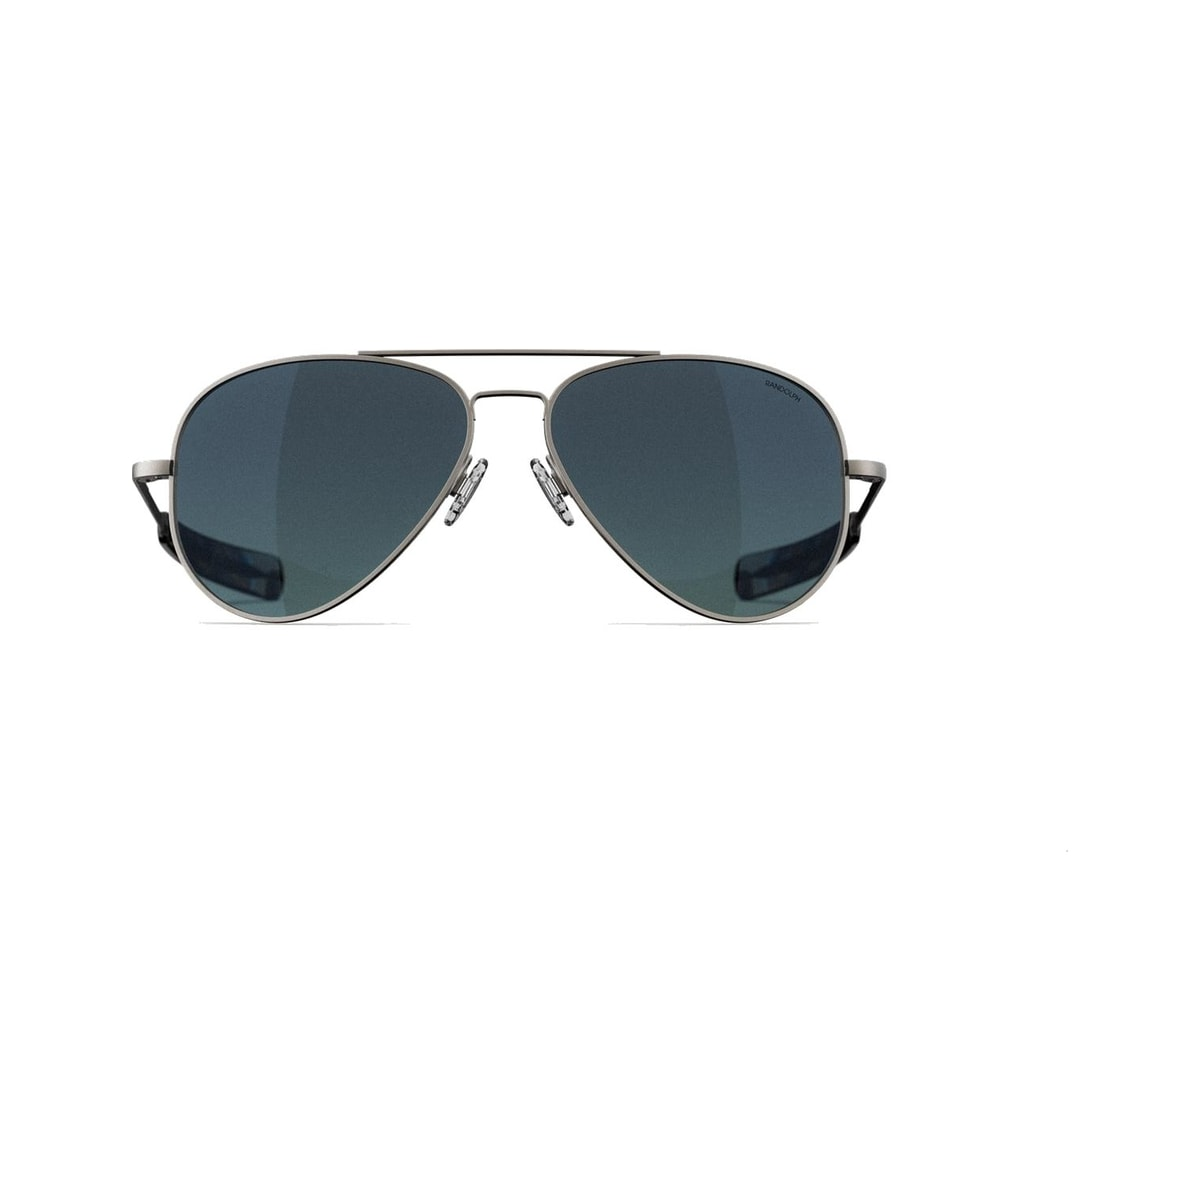
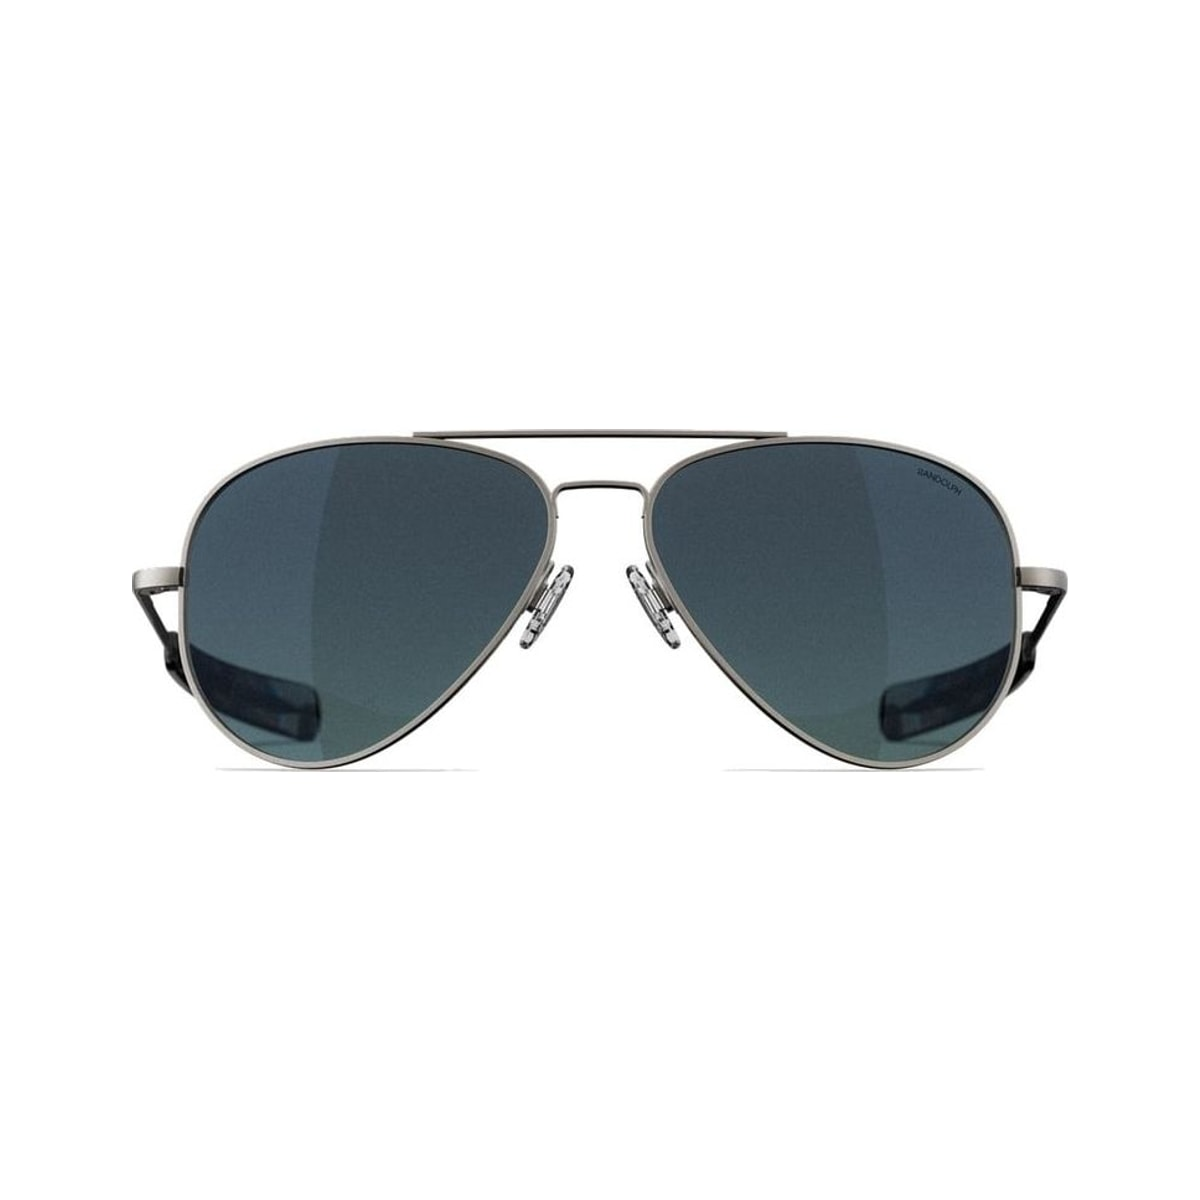
Tighten mobile storefront layouts
- Product grids go two-up on phones instead of one oversized card per
  row, with compact card bodies, stacked name/price and a full-width
  add button
- Announcement bar stays on one line by hiding its last segment under
  560px
- Hero CTAs share the row evenly; perks collapse to a 2x2 grid
- Footer keeps its link columns three-across with the brand spanning
  full width instead of one long stacked column
- Re-pad the Concorde lead shot at a higher trim threshold so its
  subject scale and centering match the rest of the lineup

Generated with [Devin](https://devin.ai)

Changed region(s): [[0.0925, 0.2775, 0.8942, 0.6475]]

diff --git a/app/globals.css b/app/globals.css
@@ -1893,21 +1893,66 @@ legend {
     gap: 14px;
   }
   .footer-grid {
-    grid-template-columns: 1fr;
-    gap: 30px;
+    grid-template-columns: repeat(3, 1fr);
+    gap: 28px 20px;
+  }
+  .footer-brand {
+    grid-column: 1 / -1;
   }
   .page-wrap {
     padding: 40px 18px 72px;
   }
 }
 
+@media (max-width: 560px) {
+  .announcement-opt {
+    display: none;
+  }
+}
+
 @media (max-width: 480px) {
   .product-grid.grid-3 {
-    grid-template-columns: 1fr;
+    grid-template-columns: repeat(2, 1fr);
+    gap: 12px;
+  }
+  .product-card-body {
+    padding: 12px 12px 14px;
+  }
+  .product-card-top {
+    flex-direction: column;
+    align-items: flex-start;
+    gap: 2px;
+  }
+  .product-card-name {
+    font-size: 15.5px;
+  }
+  .product-card-meta {
+    font-size: 12px;
+  }
+  .product-card-foot {
+    flex-direction: column;
+    align-items: stretch;
+    gap: 10px;
+    margin-top: 10px;
+  }
+  .product-card-rating {
+    justify-content: space-between;
+  }
+  .add-btn {
+    justify-content: center;
+  }
+  .quick-add-hint {
+    display: none;
+  }
+  .hero-ctas .btn {
+    flex: 1;
+    padding: 13px 10px;
+    font-size: 14px;
+    white-space: nowrap;
   }
   .perks-inner {
-    grid-template-columns: 1fr;
-    gap: 16px;
+    gap: 18px 20px;
+    padding: 22px 18px;
   }
   .order-upsell ul {
     grid-template-columns: 1fr;

diff --git a/components/Header.tsx b/components/Header.tsx
@@ -37,7 +37,17 @@ export default function Header() {
   return (
     <>
       <div className="announcement">
-        <p>{site.announcement}</p>
+        <p>
+          {site.announcement.split("·").map((seg, i, arr) => (
+            <span
+              key={i}
+              className={i === arr.length - 1 ? "announcement-opt" : undefined}
+            >
+              {i > 0 ? " · " : ""}
+              {seg.trim()}
+            </span>
+          ))}
+        </p>
       </div>
       <header className={`site-header${scrolled ? " scrolled" : ""}`}>
         <div className="header-inner">
